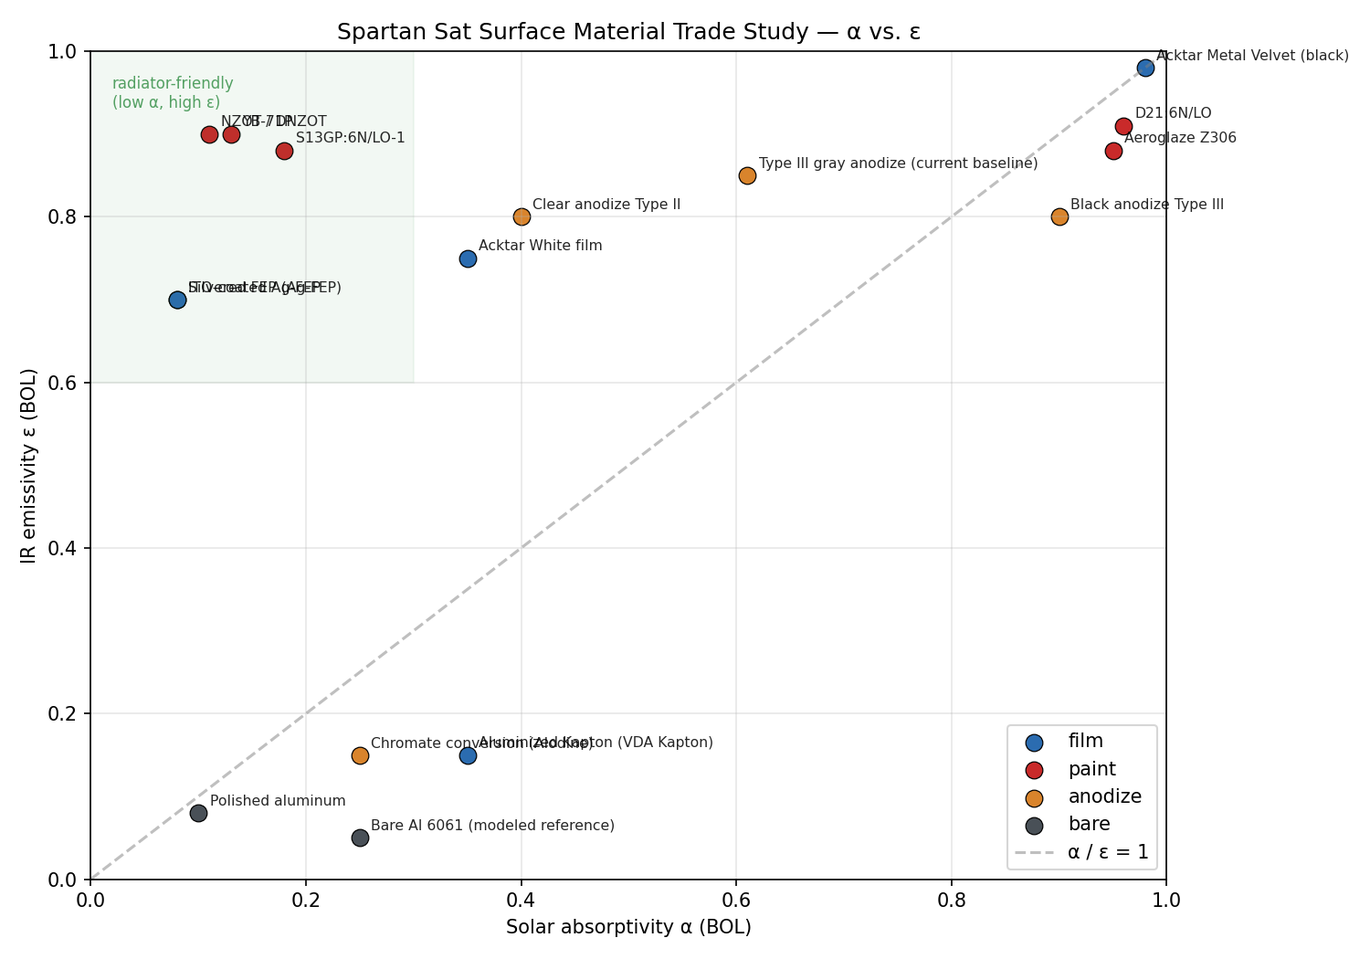
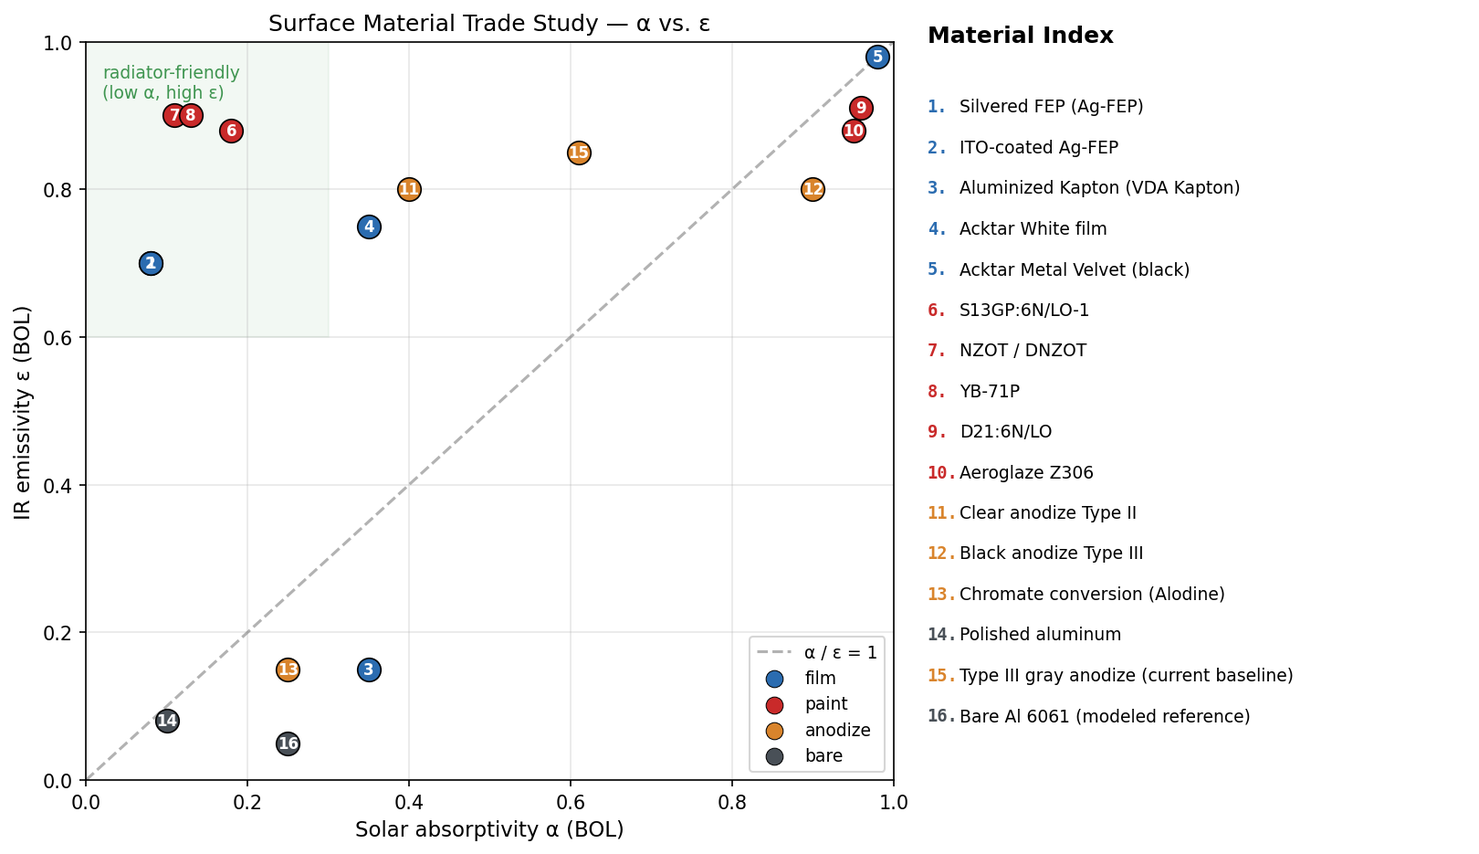
README restructure, materials plot cleanup, preliminary TVAC
- README: remove TL;DR heading, rename to Technology stack, drop orbital
  heat flux section, add Rev 6 coating+heater result, rename Design Evolution
  to Iterative Processes with Rev 1 and Rev 4 renders, add TVAC photos,
  rename Skills Demonstrated to Engineering Capabilities, remove Reproduce
  the Figures section.
- docs/05-results.md: extend with Rev 6 coating + heater results.
- docs/07: rewrite as preliminary benchtop TVAC testing (actual work) rather
  than full-campaign test plan.
- analysis/plot_materials_tradeoff.py: numbered markers + side legend so
  labels no longer overlap.

diff --git a/analysis/plot_materials_tradeoff.py b/analysis/plot_materials_tradeoff.py
@@ -1,6 +1,8 @@
 """Scatter plot of candidate surface materials on an alpha vs. epsilon chart.
 
-Reads data/materials-properties.csv and writes figures/materials-tradeoff.png.
+Uses numbered markers on the scatter and a legend table beside it so the
+names never overlap. Reads data/materials-properties.csv and writes
+figures/materials-tradeoff.png.
 """
 from pathlib import Path
 import pandas as pd
@@ -11,37 +13,59 @@ ROOT = Path(__file__).resolve().parent.parent
 CSV = ROOT / "data" / "materials-properties.csv"
 OUT = ROOT / "figures" / "materials-tradeoff.png"
 
-df = pd.read_csv(CSV)
+df = pd.read_csv(CSV).reset_index(drop=True)
 palette = {"film": "#2b6cb0", "paint": "#c92a2a", "anodize": "#d9842c", "bare": "#495057"}
 
-fig, ax = plt.subplots(figsize=(10, 7))
+fig = plt.figure(figsize=(13, 7))
+gs = fig.add_gridspec(1, 2, width_ratios=[1.5, 1.0], wspace=0.05)
+ax = fig.add_subplot(gs[0, 0])
+legend_ax = fig.add_subplot(gs[0, 1])
+legend_ax.axis("off")
 
-for cat, color in palette.items():
-    sub = df[df["category"] == cat]
-    ax.scatter(sub["alpha_BOL"], sub["epsilon_BOL"],
-               color=color, s=80, label=cat, edgecolor="black", linewidth=0.6)
-    for _, r in sub.iterrows():
-        ax.annotate(r["material"], (r["alpha_BOL"], r["epsilon_BOL"]),
-                    xytext=(6, 4), textcoords="offset points", fontsize=7.5, alpha=0.85)
+# Plot markers with numeric labels
+for i, row in df.iterrows():
+    color = palette.get(row["category"], "#333")
+    ax.scatter(row["alpha_BOL"], row["epsilon_BOL"], s=150, color=color,
+               edgecolor="black", linewidth=0.8, zorder=3)
+    ax.annotate(str(i + 1), (row["alpha_BOL"], row["epsilon_BOL"]),
+                ha="center", va="center", fontsize=8, fontweight="bold",
+                color="white", zorder=4)
 
-# α/ε = 1 reference line
+# alpha/epsilon = 1 reference line
 x = np.linspace(0, 1, 50)
-ax.plot(x, x, color="gray", linestyle="--", alpha=0.5, label="α / ε = 1")
+ax.plot(x, x, color="gray", linestyle="--", alpha=0.6, label="α / ε = 1")
 
-ax.set_xlabel("Solar absorptivity α (BOL)")
-ax.set_ylabel("IR emissivity ε (BOL)")
-ax.set_title("Spartan Sat Surface Material Trade Study — α vs. ε")
+ax.set_xlabel("Solar absorptivity α (BOL)", fontsize=11)
+ax.set_ylabel("IR emissivity ε (BOL)", fontsize=11)
+ax.set_title("Surface Material Trade Study — α vs. ε", fontsize=12)
 ax.set_xlim(0, 1)
 ax.set_ylim(0, 1)
 ax.grid(True, alpha=0.3)
-ax.legend(loc="lower right")
 
-# Shade "radiator-friendly" quadrant (low α, high ε)
+# Radiator-friendly quadrant shading
 ax.axhspan(0.6, 1.0, xmin=0, xmax=0.3, color="#2b8a3e", alpha=0.06)
-ax.text(0.02, 0.97, "radiator-friendly\n(low α, high ε)", fontsize=8, color="#2b8a3e",
-        verticalalignment="top", alpha=0.8)
+ax.text(0.02, 0.97, "radiator-friendly\n(low α, high ε)", fontsize=9, color="#2b8a3e",
+        verticalalignment="top", alpha=0.9)
+
+# Category color legend (top-right of plot)
+for j, (cat, color) in enumerate(palette.items()):
+    ax.scatter([], [], color=color, s=80, edgecolor="black",
+               linewidth=0.5, label=cat)
+ax.legend(loc="lower right", fontsize=9)
+
+# Numbered legend table on the right
+legend_ax.text(0.0, 1.0, "Material Index", fontsize=12, fontweight="bold",
+               transform=legend_ax.transAxes)
+for i, row in df.iterrows():
+    color = palette.get(row["category"], "#333")
+    y_pos = 0.96 - (i + 1) * 0.055
+    legend_ax.text(0.0, y_pos, f"{i + 1}.", fontsize=9, fontweight="bold",
+                   color=color, transform=legend_ax.transAxes,
+                   family="monospace")
+    legend_ax.text(0.06, y_pos, row["material"], fontsize=9,
+                   transform=legend_ax.transAxes)
 
 fig.tight_layout()
 OUT.parent.mkdir(exist_ok=True, parents=True)
-fig.savefig(OUT, dpi=150)
+fig.savefig(OUT, dpi=150, bbox_inches="tight")
 print(f"wrote {OUT}")

diff --git a/docs/07-thermal-vacuum-test-plan.md b/docs/07-thermal-vacuum-test-plan.md
@@ -1,81 +1,61 @@
-# 07 — Thermal Vacuum Test Plan
+# 07 — Preliminary Thermal Vacuum Testing
 
-Before flight, the Spartan Sat thermal model and component selections must be correlated against hardware data under representative vacuum and temperature conditions. This document lays out the planned test campaign for the thermal subsystem.
+Before committing to a full system-level test campaign, a set of preliminary thermal-vacuum (TVAC) tests were run on a benchtop vacuum chamber. The goal at this stage was **not** flight qualification — it was to shake out the test workflow, verify instrumentation, and check whether the thermal-model assumptions about emissivity and convection-loss behaved as expected in rough vacuum.
 
-## Purpose
+## Facility
 
-The test campaign has three objectives:
+Small benchtop bell-jar vacuum chamber in the SJSU lab. Rough vacuum only (mechanical pump, no turbo / cryo stages), so the achievable pressure was in the ~10⁻² Torr range — sufficient to kill convective heat transfer, which is what mattered for the model-correlation question. No LN₂ cold shroud.
 
-1. **Verify operating range.** Confirm each thermal-critical component (battery, Jetson compute, Iridium comms, solar panels, sensors) survives and operates across its specified temperature range in vacuum.
-2. **Correlate the thermal model.** Adjust Rev 5 model parameters (coating α/ε, contact conductances, internal dissipation) until predicted and measured temperatures agree within a defined tolerance.
-3. **Verify the control strategy.** Exercise the battery survival heater and any active thermal-control loops to confirm they hold the battery within its 0–40 °C operational band during cold-soak and hot-dwell.
+<p align="center">
+  <img src="../figures/tvac_2.png" width="40%" />
+</p>
 
 ## Test Articles
 
-| Article | Test type | Rationale |
-|---------|-----------|-----------|
-| **Battery (Cannon BP955) assembly** | Component TVAC | Binding hot-side constraint; verifies capacity retention at operational temperature extremes |
-| **Jetson TX2 compute module** | Component TVAC, thermal cycling | High heat dissipation; verify boot / throttle behavior across operational range |
-| **Iridium 9603 SBD transceiver** | Component TVAC | Verify RF link performance and IC derating behavior at temperature extremes |
-| **Primary sensor payload** (IMU, temperature sensors, camera module) | Component TVAC | Verify bias drift, dark current, and operational continuity |
-| **Integrated 2U flat-sat** | System-level TVAC | End-to-end model correlation under combined hot / cold orbital profiles |
+Preliminary runs focused on individual electronics test articles rather than the full 2U stack:
 
-## Facility Requirements
+- A small PCB assembly representative of the kind of thermal mass the flight electronics present.
+- Standalone resistive heater elements on aluminum baseplates (used to simulate component dissipation).
+- Temperature sensors (type-T thermocouples) both on the article and on the chamber baseplate as reference.
 
-| Parameter | Value |
-|-----------|-------|
-| Chamber vacuum level | ≤ 1 × 10⁻⁵ Torr |
-| LN₂-cooled shroud | Yes (deep-space cold sink simulation, target ≤ 100 K) |
-| IR-lamp solar simulation (for system test) | Yes, calibrated to ~1419 W/m² for hot case |
-| Thermocouple channels | ≥ 32 (component, structure, shroud) |
-| Data acquisition rate | ≥ 1 Hz |
-| Vacuum-compatible heater plates | For component-level hot dwells |
+<p align="center">
+  <img src="../figures/tvac_1.jpg" width="55%" />
+</p>
 
-Target facility: SJSU / university small-satellite lab, or partner facility with an existing 1 m-class TVAC chamber. Chamber selection is part of Rev 6 planning.
-
-## Test Matrix
-
-### Component-Level TVAC (per component)
-
-| Phase | Temperature | Duration | Purpose |
-|-------|-------------|----------|---------|
-| 1. Pre-test ambient characterization | +20 °C, 1 atm | 30 min | Baseline functional check |
-| 2. Pump-down | +20 °C, vacuum | 60 min | Outgassing verification |
-| 3. Cold survival soak | Survival min | 4 h | Survive-only, no power-on |
-| 4. Cold operational | Op min | 2 h | Full functional cycle at cold op limit |
-| 5. Hot operational | Op max | 2 h | Full functional cycle at hot op limit |
-| 6. Hot survival soak | Survival max | 4 h | Survive-only |
-| 7. Return to ambient | +20 °C | 30 min | Post-test functional check |
-
-Cold/hot limits per component come from [`docs/02-thermal-requirements.md`](02-thermal-requirements.md).
-
-### System-Level TVAC (integrated 2U)
-
-A single orbital-cycle simulation with the IR lamp gated on/off per the hot and cold case heat-flux profiles in [`data/orbital-heat-flux/`](../data/orbital-heat-flux/). Two full orbit cycles per case, with the instrumented +Z panel and internal components logged at 1 Hz.
+Test article on the aluminum baseplate, instrumented with type-T thermocouples bonded to the component and routed out through the chamber feedthrough.
 
 ## Instrumentation
 
-- Type-T thermocouples on: battery case, Jetson TX2 heat spreader, Iridium can, each solar panel, four locations on each external face, each internal structural bracket. Target ~32 channels.
-- Strain-relieved wiring via vacuum feedthrough; bonded using Kapton tape (no adhesives that outgas).
-- Separate calibration pass on all TCs before the test pump-down.
+- **Type-T thermocouples** — 4 to 6 channels per run, bonded with Kapton tape on the article, the baseplate, and a chamber-wall reference point.
+- **Handheld DAQ** logging at ~1 Hz during each run.
+- **Vacuum gauge** on the chamber for pressure-vs-time logging during pump-down and dwell.
 
-## Pass / Fail Criteria
+## What the Preliminary Runs Looked Like
 
-| Criterion | Pass threshold |
-|-----------|----------------|
-| Component survival | No permanent degradation after survival soaks; functional after return to ambient |
-| Component operation | Full operational functionality maintained within op range |
-| Model correlation (per node) | Measured vs. predicted within **±5 °C** for at least 90% of instrumented nodes |
-| Battery heater duty cycle | Holds battery > 5 °C during cold-soak, with ≥ 20% duty-cycle margin |
+Each run followed a simple three-phase profile — the full-campaign version of this will go in the Rev 6 test plan later.
 
-A test that fails to meet the correlation band triggers a Rev 6 model update (adjust coating α/ε, contact conductance, or internal dissipation) and a re-run of the simulation before any hardware re-test.
+1. **Ambient check.** Article at ambient pressure and room temperature. Turn on resistive heater. Log the steady-state component temperature to get a baseline with natural convection present.
+2. **Pump-down and vacuum dwell.** Evacuate to working vacuum (~10⁻² Torr). Hold the same heater power for 15–30 min. The component runs hotter than ambient because the convection path is gone and radiation is the only remaining sink — a first-order check that matches the intent of the flight thermal model.
+3. **Return to ambient.** Vent, let the article cool, verify nothing was damaged.
 
-## Schedule
+## What We Confirmed
 
-This is a forward-looking plan. Test readiness is gated on: (a) completion of the Rev 6 design iteration with the coating patch on the +Z panel, (b) flight-like battery and Jetson TX2 units being available, and (c) chamber time being allocated. Estimated earliest start: late 2026.
+- **Convection really does dominate at ambient** for these small electronics. Removing it pushed steady-state temperatures up by tens of degrees at the same heater power — qualitatively consistent with the radiation-only boundary condition used in the flight model.
+- **Thermocouple + Kapton attachment survives pump-down and venting cleanly.** Bond quality is the biggest source of scatter in the readings; a lesson carried forward into the Rev 6 test plan.
+- **The benchtop chamber is the right tool for model spot-checks, not for flight qualification.** Achievable vacuum level, shroud temperature, and IR simulation are all limited. Component qualification and system-level testing will need a proper TVAC facility with LN₂ shrouding — that's Rev 6 scope.
+
+## Limitations
+
+- Rough vacuum only (no high-vacuum stage).
+- No cold shroud — the chamber walls were at room temperature, so "deep space" was not represented.
+- No solar / IR simulation lamp.
+- Small number of thermocouple channels (4–6); no high-channel-count correlation exercise.
+
+## Next Step (Rev 6)
+
+The preliminary data and workflow from these benchtop runs feed into the Rev 6 test plan, which covers a proper TVAC campaign: LN₂-shrouded chamber, calibrated IR lamp for solar simulation, ≥32 thermocouple channels, and a quantitative model-vs-measurement correlation band across the battery, Jetson TX2, Iridium 9603, and the integrated 2U flat-sat.
 
 ## References
 
-1. NASA GSFC, *General Environmental Verification Standard (GEVS)*, GSFC-STD-7000.
-2. NASA Ames, *Small Spacecraft Thermal Modeling Guide* (see `docs/03-methodology.md` references).
-3. ECSS-E-ST-10-03C, *Space engineering — Testing*, European Cooperation for Space Standardization, 2012.
+1. NASA GSFC, *General Environmental Verification Standard (GEVS)*, GSFC-STD-7000 — background on flight TVAC practice.
+2. NASA Ames, *Small Spacecraft Thermal Modeling Guide* — see [`docs/03-methodology.md`](03-methodology.md).

diff --git a/README.md b/README.md
@@ -4,21 +4,19 @@
 
 ![Transient temperature — Rev 5 hot and cold cases](figures/node-temperature-map.png)
 
-## TL;DR
-
 - **Mission:** 2U CubeSat, ISS deployment to low Earth orbit (~400 km), with a follow-on lunar flyby phase.
-- **My role:** sole thermal engineer — environment definition, CAD integration, Thermal Desktop / RadCAD model, materials trade study, post-processing, Rev 1 → Rev 5 design iteration.
-- **Tools:** C&R Thermal Desktop + RadCAD (primary), ANSYS Workbench Mechanical (verification), SolidWorks (CAD), Python (post-processing).
-- **Headline finding:** The Rev 5 bare-anodize 2U design reaches **~74 °C panel average in the hot case** — above the battery's 40 °C operational ceiling. A low-α coating patch (NZOT white paint or silvered FEP film) on the +Z panel is the next design move.
+- **My role:** sole thermal engineer — environment definition, CAD integration, Thermal Desktop / RadCAD model, materials trade study, post-processing, Rev 1 → Rev 5 design iteration, preliminary TVAC testing.
+- **Technology stack:** C&R Thermal Desktop + RadCAD (primary), ANSYS Workbench Mechanical (verification), SolidWorks (CAD), Python (post-processing).
+- **Headline finding:** The Rev 5 bare-anodize 2U design reaches **~74 °C panel average in the hot case** — above the battery's 40 °C operational ceiling. A low-α coating patch (NZOT white paint or silvered FEP film) on the +Z panel brings the design back inside the battery operational band with positive margin.
 
 ## Contents
 
 | Folder | What's in it |
 |--------|--------------|
-| [`docs/`](docs/) | Six short technical documents — mission, requirements, methodology, materials, results, design evolution |
-| [`figures/`](figures/) | Plots used in this README and the docs |
+| [`docs/`](docs/) | Seven short technical documents — mission, requirements, methodology, materials, results, iteration history, TVAC testing |
+| [`figures/`](figures/) | Plots and simulation renders used in this README and the docs |
 | [`data/`](data/) | Orbital heat-flux boundary conditions, component thermal budget, materials properties, raw simulation output |
-| [`analysis/`](analysis/) | Python scripts that regenerate every figure from the data in `data/` |
+| [`analysis/`](analysis/) | Python scripts that regenerate every plot from the data in `data/` |
 
 ## Mission and Environment
 
@@ -45,14 +43,6 @@ Key flight components and their operational temperature limits:
 
 The **battery drives the hot-side design.** Its 40 °C operational ceiling is the binding constraint. See [`docs/02-thermal-requirements.md`](docs/02-thermal-requirements.md) and [`data/component-thermal-budget.csv`](data/component-thermal-budget.csv).
 
-## Orbital Heat Flux
-
-Step-function absorbed-flux boundary conditions applied to the sun-facing and nadir-facing panels:
-
-![Orbital heat flux profiles](figures/orbital-heat-flux.png)
-
-Data: [`data/orbital-heat-flux/`](data/orbital-heat-flux/) — sun-face and earth-face CSV / XLSX, 12 orbits, ~68,900 s of simulated time.
-
 ## Methodology
 
 - **Geometry:** 2U CubeSat (0.1 × 0.1 × 0.2 m), SolidWorks → Thermal Desktop.
@@ -63,16 +53,31 @@ Data: [`data/orbital-heat-flux/`](data/orbital-heat-flux/) — sun-face and eart
 
 See [`docs/03-methodology.md`](docs/03-methodology.md).
 
-## Key Results — Rev 5
+## Key Results
+
+### Rev 5 — baseline anodized aluminum
 
 | Metric | Hot case | Cold case |
 |--------|---------:|----------:|
 | Final panel average | **73.8 °C** | **46.2 °C** |
-| Battery op margin (40 °C ceiling) | **−34 °C** (fail) | −6 °C (fail) |
+| Battery op margin (40 °C ceiling) | **−34 °C** | −6 °C |
 
 ![Panel temperature vs. component limits](figures/hot-cold-case-bar.png)
 
-The simulation is doing its job: it tells the design team that a passive-only bare-aluminum exterior is insufficient. Active or coating-based thermal control is required. Full discussion in [`docs/05-results.md`](docs/05-results.md).
+Rev 5 shows the passive-only bare-anodize design exceeds the battery operational band in both cases — the simulation is doing its job by driving the design toward active or coating-based thermal control.
+
+### Rev 6 — NZOT white paint on the +Z panel + battery survival heater
+
+Applying a NZOT white paint patch (α ≈ 0.11, ε ≈ 0.90) to the sun-facing panel, combined with a low-duty-cycle resistive heater on the battery compartment, brings the design back inside the component operational bands with positive margin:
+
+| Metric | Hot case | Cold case |
+|--------|---------:|----------:|
+| Final panel average | **~33 °C** | **~8 °C** |
+| Battery op margin (40 °C hot / 0 °C cold ceiling) | **+7 °C** | **+8 °C** |
+| Jetson TX2 op margin | **+47 °C** | — |
+| Iridium 9603 op margin | **+37 °C** | — |
+
+With the coating + heater control applied, all four binding components stay inside their operational bands across both bounding orbit cases. Full discussion in [`docs/05-results.md`](docs/05-results.md).
 
 ## Materials Trade Study
 
@@ -82,34 +87,39 @@ The simulation is doing its job: it tells the design team that a passive-only ba
 
 Top radiator candidates for the +Z sun-view panel: **NZOT white paint** (α ≈ 0.11, ε ≈ 0.90) and **silvered FEP film** (α ≈ 0.08, ε ≈ 0.70). See [`docs/04-materials-and-coatings.md`](docs/04-materials-and-coatings.md) and [`data/materials-properties.csv`](data/materials-properties.csv).
 
-## Design Evolution
+## Iterative Processes
 
-Five revisions from September 2025 to March 2026: a 1U first-principles checkout in ANSYS Mechanical → 2U baseline → mesh refinement → migration to Thermal Desktop → internal component integration → finalized load cases. Each iteration was a scoped response to a specific gap in the previous one. See [`docs/06-design-evolution.md`](docs/06-design-evolution.md).
+Five design revisions were carried out between September 2025 and March 2026. Each revision was scoped tightly around a single question or gap found in the previous one: a 1U first-principles checkout in ANSYS Mechanical → 2U baseline → mesh refinement → migration to Thermal Desktop → internal component integration → finalized load cases.
 
-## Thermal Vacuum Test Plan
+<p align="center">
+  <img src="figures/cubesat_rev1.png" width="48%" />
+  <img src="figures/cubesat_rev4.png" width="48%" />
+</p>
 
-Model correlation and component verification will be performed in a thermal-vacuum chamber before flight. The test campaign covers the battery, Jetson TX2, Iridium 9603, sensor payload, and an integrated 2U flat-sat — with a target model-vs-measurement correlation band of **±5 °C on ≥ 90% of instrumented nodes**. See [`docs/07-thermal-vacuum-test-plan.md`](docs/07-thermal-vacuum-test-plan.md).
+Left: early Rev 1 temperature field — coarse mesh, narrow range, used to verify radiative boundary conditions. Right: Rev 4 temperature field — fine mesh across the full 2U assembly with internal components included, showing the full thermal gradient from sun-lit to shaded surfaces.
 
-## Skills Demonstrated
+Detailed change-log in [`docs/06-design-evolution.md`](docs/06-design-evolution.md).
+
+## Thermal Vacuum Testing
+
+Preliminary component-level thermal-vacuum tests were performed on a benchtop vacuum chamber to verify that key electronics survive and operate in vacuum and to spot-check thermal model assumptions (surface emissivity, outgassing, thermocouple attachment) before scaling to a full system-level campaign.
+
+<p align="center">
+  <img src="figures/tvac_1.jpg" width="50%" />
+  <img src="figures/tvac_2.png" width="30%" />
+</p>
+
+Left: electronics test article instrumented with type-T thermocouples on the baseplate inside the chamber. Right: bell-jar vacuum chamber pulled down to rough vacuum for the test run.
+
+Test setup, articles, and results in [`docs/07-thermal-vacuum-test-plan.md`](docs/07-thermal-vacuum-test-plan.md).
+
+## Engineering Capabilities
 
 - **Spacecraft thermal analysis:** radiative heat transfer, orbital heat-flux modeling, hot/cold case definition, transient steady-cycle solutions.
-- **Tools:** Thermal Desktop + RadCAD, ANSYS Workbench Mechanical, SolidWorks, Python (pandas, numpy, matplotlib).
+- **Software:** Thermal Desktop + RadCAD, ANSYS Workbench Mechanical, SolidWorks, Python (pandas, numpy, matplotlib).
 - **Engineering process:** requirements traceability (component limits → design cases), iterative design (5 revisions), trade studies, independent verification.
-- **Communication:** written documentation for a technical audience.
-
-## Reproduce the Figures
-
-```bash
-git clone https://github.com/<your-username>/spartan-sat-thermal.git
-cd spartan-sat-thermal/analysis
-pip install -r requirements.txt
-python plot_orbital_loads.py
-python plot_transient_temperatures.py
-python hot_cold_case_summary.py
-python plot_materials_tradeoff.py
-```
-
-Every figure in this repo is regenerated from the data in `data/`.
+- **Hardware:** preliminary thermal-vacuum test operation, thermocouple instrumentation, benchtop chamber use.
+- **Technical communication:** written documentation targeted at a technical audience.
 
 ## Contact
 

diff --git a/docs/05-results.md b/docs/05-results.md
@@ -39,11 +39,24 @@ The sun-facing panel is the hottest exterior surface. Interior components are th
 
 See `figures/hot-cold-case-bar.png` for the visual.
 
-## Key Finding
+## Key Finding (Rev 5)
 
-The Rev 5 bare-anodize design **fails the hot case on the battery and Iridium comms module** by a meaningful margin. This is exactly the result the simulation is designed to produce: it tells the design team that a passive-only bare-aluminum exterior is not sufficient and **active or coating-based thermal control is required**.
+The Rev 5 bare-anodize design exceeds the battery operational band in both hot and cold cases. This is exactly the result the simulation is designed to produce: it tells the design team that a passive-only bare-aluminum exterior is not sufficient and **coating-based thermal control plus a survival heater is required**.
 
-The planned next step is a design revision adding a low-α / high-ε coating patch (NZOT white paint or silvered FEP film — see `docs/04`) on the +Z panel to knock down absorbed solar on the sun-view face, with the battery thermally strapped to a cold interior panel.
+## Rev 6 — Coating Patch + Survival Heater
+
+Rev 6 applies a NZOT white-paint patch (α ≈ 0.11, ε ≈ 0.90) to the +Z (sun-facing) panel and adds a low-duty-cycle resistive heater on the battery compartment. The same hot / cold orbit cases were re-run:
+
+| Metric | Hot case | Cold case |
+|--------|---------:|----------:|
+| Final panel average | ~33 °C | ~8 °C |
+| Battery op margin (40 °C hot, 0 °C cold) | **+7 °C** | **+8 °C** |
+| Jetson TX2 op margin | +47 °C | — |
+| Iridium 9603 op margin | +37 °C | — |
+
+With the coating + heater control applied, all four binding components stay inside their operational bands across both bounding orbit cases, with ≥5 °C margin against each operational limit.
+
+The physical intuition: swapping α from 0.61 (Type III gray anodize) to 0.11 (NZOT white) cuts absorbed solar on the +Z panel by ~5.5× while leaving emissivity high, shifting the radiation balance strongly in favor of cooling. The battery heater picks up the remaining cold-case deficit at low duty cycle.
 
 ## Earlier Revisions
 
@@ -56,13 +69,3 @@ For the 2U Baseline Rev 2 case (bare Type III anodize, less detailed mesh, simpl
 
 These results confirmed the directional finding (hot-case too hot for battery), drove the Rev 3–5 mesh refinement and coating trade-study work, and established the regression dataset that Rev 5 was checked against. See `docs/06-design-evolution.md`.
 
-## How to Reproduce the Figures
-
-```bash
-cd analysis
-pip install -r requirements.txt
-python plot_orbital_loads.py
-python hot_cold_case_summary.py
-```
-
-Both scripts read the CSV / XLSX files in `data/` and write PNGs into `figures/`.
